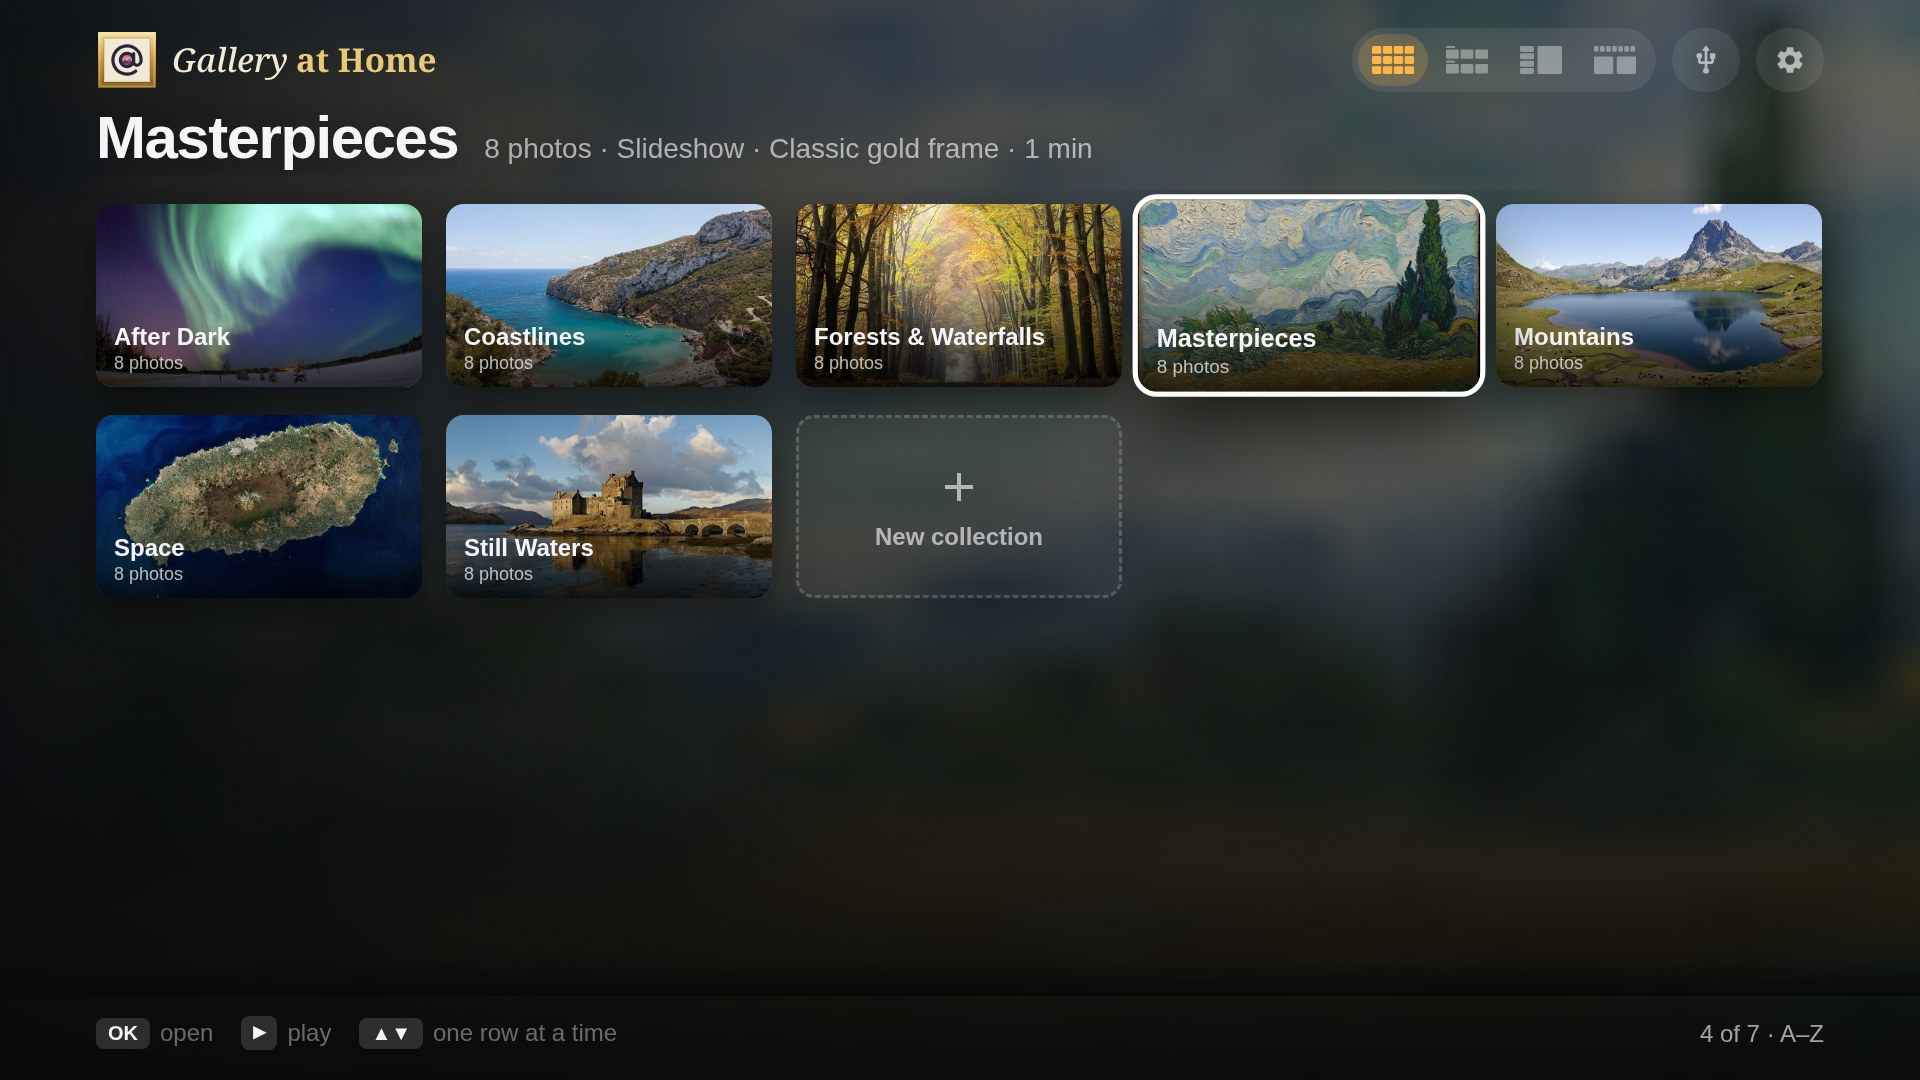
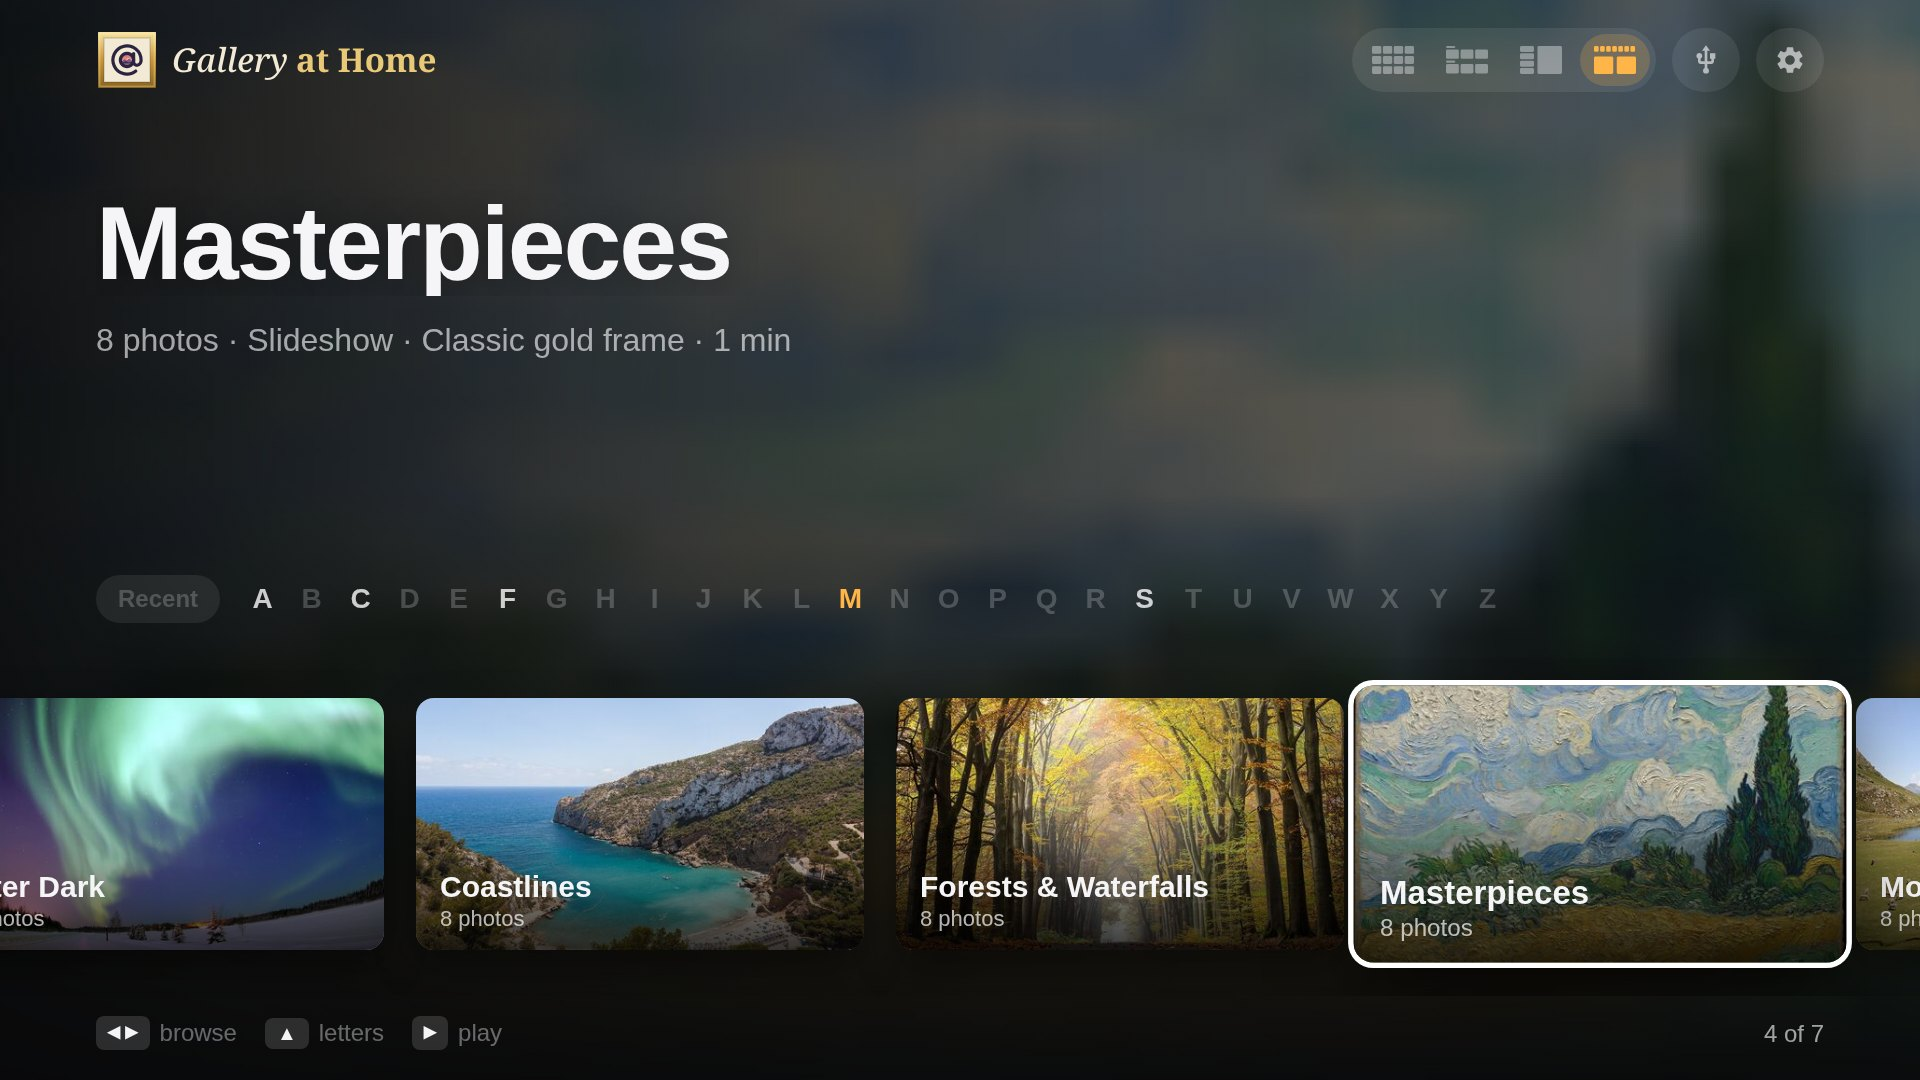
Make the Jump bar the default Home layout
Saved choices are kept, so this only affects new installs. The README's
Home screenshot now shows what a first run opens on.

diff --git a/tests/store.test.ts b/tests/store.test.ts
@@ -82,10 +82,11 @@ describe('older saves', () => {
 });
 
 describe('Home layout setting', () => {
-  it('defaults to the Wall, keeps a saved choice and ignores an unknown one', async () => {
-    expect((await loadStore()).getState().settings.homeView).toBe('wall');
+  it('defaults to the Jump bar, keeps a saved choice and ignores an unknown one', async () => {
+    expect((await loadStore()).getState().settings.homeView).toBe('jump');
+    expect((await loadStore({ samplesAdded: true, settings: { homeView: 'wall' } })).getState().settings.homeView).toBe('wall');
     expect((await loadStore({ samplesAdded: true, settings: { homeView: 'index' } })).getState().settings.homeView).toBe('index');
-    expect((await loadStore({ samplesAdded: true, settings: { homeView: 'carousel' } })).getState().settings.homeView).toBe('wall');
+    expect((await loadStore({ samplesAdded: true, settings: { homeView: 'carousel' } })).getState().settings.homeView).toBe('jump');
   });
 });
 

diff --git a/tests/app.test.ts b/tests/app.test.ts
@@ -24,6 +24,14 @@ describe('Home', () => {
     expect($<HTMLImageElement>('.wordmark')?.alt).toBe('Gallery at Home');
   });
 
+  it('opens on the Jump bar on first run, with a collection focused', async () => {
+    app = await startApp();
+    await find('.jump-bar');
+    expect($(nav('view-jump'))?.getAttribute('aria-pressed')).toBe('true');
+    await vi.waitFor(() => expect(document.activeElement?.getAttribute('data-collection-id')).toBe('sample-night'));
+    expect(text('.hero-title')).toBe('After Dark');
+  });
+
   it('asks before exiting on Back, and Cancel stays', async () => {
     app = await startApp();
     await vi.waitFor(() => expect(document.activeElement?.getAttribute('data-nav')).not.toBeNull());

diff --git a/src/store/store.ts b/src/store/store.ts
@@ -22,7 +22,7 @@ function initialState(): State {
   return {
     collections: [],
     sources: [],
-    settings: { defaultPlay: { ...DEFAULT_PLAY }, idleMin: 5, homeView: 'wall' },
+    settings: { defaultPlay: { ...DEFAULT_PLAY }, idleMin: 5, homeView: 'jump' },
     nowShowing: null,
     samplesAdded: false,
   };

diff --git a/README.md b/README.md
@@ -30,8 +30,8 @@ driven entirely with the remote. No server or phone app is needed.
   list grows. **Wall** shows them all in an A–Z grid. **Shelves** fills rows by
   itself: Recently played, Google Photos albums, My collections and Included.
   **Index** is an A–Z list beside a large preview, where CH ▲▼ jumps a letter.
-  **Jump bar** is one row of large posters under a Recent button and an A–Z
-  strip. The choice is remembered.
+  **Jump bar**, the default, is one row of large posters under a Recent button
+  and an A–Z strip. The choice is remembered.
 - **Now showing:** whatever you play last stays pinned: one photo ("Show
   this photo", or Red on a photo) or a whole collection (Play). Opening the
   app goes straight to it, the menus return to it after a few idle minutes
